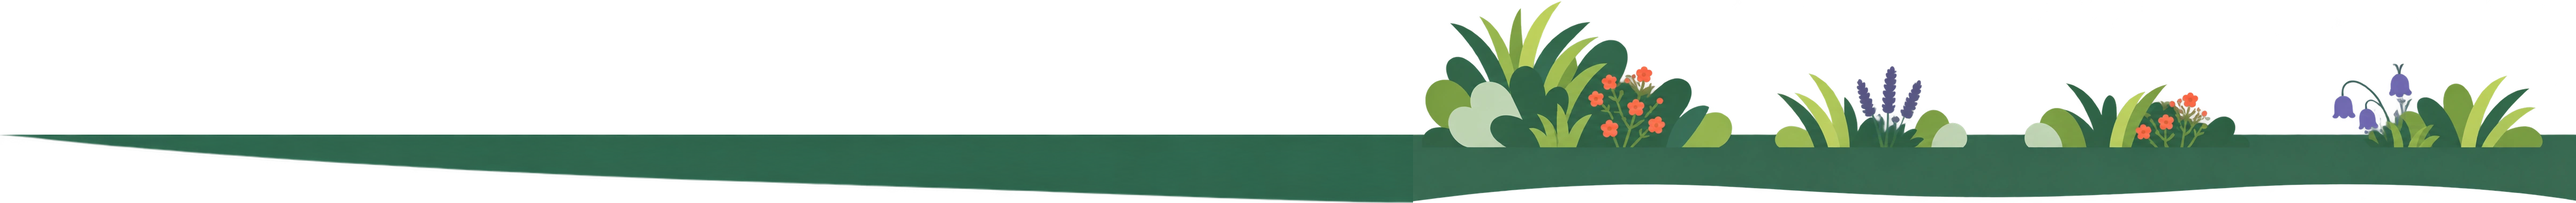
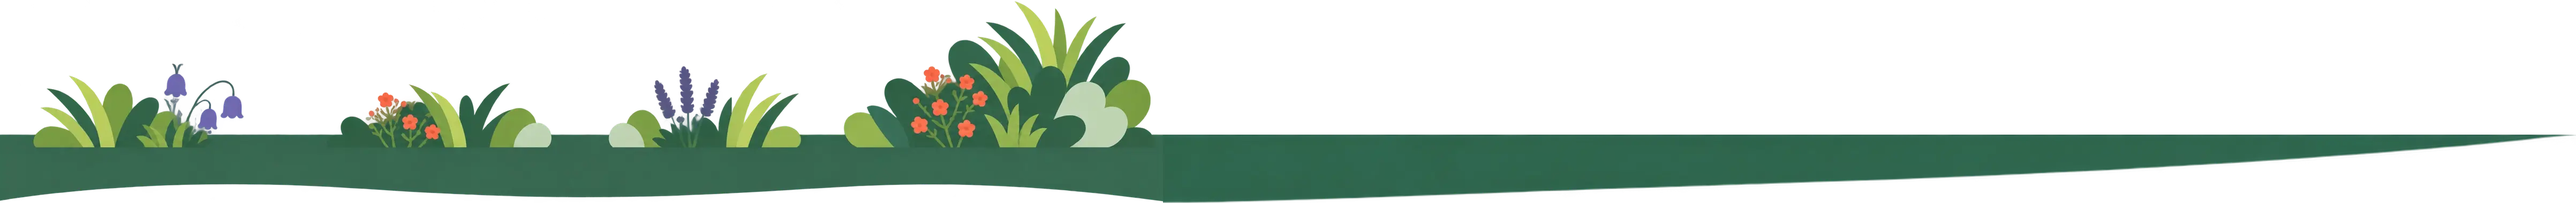
Use pre-mirrored left bottom04 artwork directly

Changed region(s): [[0.4365, 0.0289, 1.0, 1.0], [0.0, 0.0289, 0.4677, 0.9842]]

diff --git a/js/hex.js b/js/hex.js
@@ -253,7 +253,7 @@ const HEX_IS_PRODUCTION=HEX_HOSTS.PRODUCTION.indexOf(location.hostname)!==-1;
     file=file.replace(/^exterior\.(?:png|webp)(?=[?#]|$)/i,'exterior02.webp');
     file=file.replace(/^(house|drawing|exterior0[12]|tree0[1-3]|underplant0[1-3])\.png(?=[?#]|$)/i,'$1.webp');
     /* 同名の短い旧画像がキャッシュに残っていても、延長版を読み込む。 */
-    if(/^(?:left|right)_bottom04\.webp$/i.test(file))file+='?v=20261028-wide';
+    if(/^(?:left|right)_bottom04\.webp$/i.test(file))file+='?v=20261029-oriented';
     if(!/^[^/\\?#]+\.(?:avif|gif|jpe?g|png|svg|webp)(?:[?#].*)?$/i.test(file))return null;
     return new URL(file,imageRoot).href;
   }

diff --git a/css/hex_pc.css b/css/hex_pc.css
@@ -9258,7 +9258,7 @@ body > .hex-v2-handoff{z-index:198;}
   width:var(--hex-boundary-width);height:auto;max-width:none;
   opacity:1;pointer-events:none;
 }
-.hex-hero-boundary-img--left{left:calc(var(--hex-boundary-left,0px) - 2px);transform:scaleX(-1);}
+.hex-hero-boundary-img--left{left:calc(var(--hex-boundary-left,0px) - 2px);}
 .hex-hero-boundary-img--right{right:calc(var(--hex-boundary-right,0px) - 2px);}
 /* CMS共通の画像幅制限で、SPだけ苔の画像が縮まないようにする。 */
 .hex-hero-boundary-illustrations > img.hex-hero-boundary-img{max-width:none!important;}

diff --git a/docs/hero-layers.md b/docs/hero-layers.md
@@ -105,7 +105,7 @@ WELCOMEのCMS外枠はオーバーラップ用runway（z-index:95）内に入る
 
 ## 境界の前景 bottom04
 
-left_bottom04.webp・right_bottom04.webpは独立したhex-hero-boundary-illustrationsに置きます。他の画像と同様にHTMLで指定します。JSでは自動追加しません。改行なしの登録用HTMLはexamples/hero-layers-inline.htmlを使用してください。フラット背景より前、模型より後ろに表示し、01〜03の位置・重なり・初回演出は維持します。04は初めから表示し、ニョキ演出や手動ズームによる拡縮は行いません。横ドラッグの追従率75%と端位置は01と共有します。表示幅はbottom01と同じにし、苔山の水平上端を01の下端（背景の水平上端）へ揃えます。下草の株元は苔山の手前に表示します。左右は同じ画像を使い、左側をCSSで反転して端へ下がる構図にします。WELCOME・人物フォーカス・開幕プレビューにも複製します。
+left_bottom04.webp・right_bottom04.webpは独立したhex-hero-boundary-illustrationsに置きます。他の画像と同様にHTMLで指定します。JSでは自動追加しません。改行なしの登録用HTMLはexamples/hero-layers-inline.htmlを使用してください。フラット背景より前、模型より後ろに表示し、01〜03の位置・重なり・初回演出は維持します。04は初めから表示し、ニョキ演出や手動ズームによる拡縮は行いません。横ドラッグの追従率75%と端位置は01と共有します。表示幅はbottom01と同じにし、苔山の水平上端を01の下端（背景の水平上端）へ揃えます。下草の株元は苔山の手前に表示します。左右は各画像をそのまま表示します。left_bottom04.webpは画像側で反転済みのため、CSSでは反転しません。WELCOME・人物フォーカス・開幕プレビューにも複製します。
 
 ### bottom04の内側延長
 
